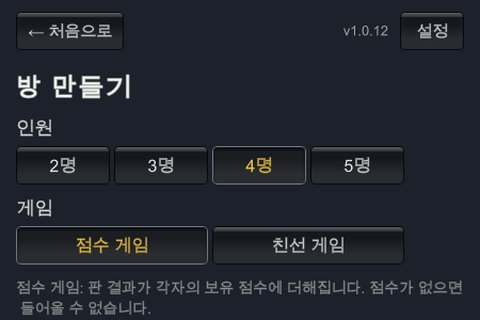
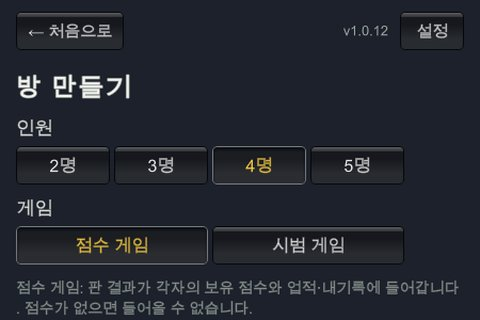
사용설명서: 충전 10만 점·200만까지·하루 한 번, 시범 게임, 암호화 저장 · 개인정보처리방침: 암호화

Changed region(s): [[0.0312, 0.9375, 0.5312, 1.0], [0.5625, 0.875, 0.9688, 0.9375], [0.5625, 0.7188, 0.6562, 0.8125]]

diff --git a/privacy.html b/privacy.html
@@ -38,7 +38,7 @@
 <table>
 <tr><th>정보</th><th>쓰는 곳</th><th>보관</th></tr>
 <tr><td>게임에서 쓰는 이름(별명)</td><td>같은 방 사람들에게 보여 주기</td><td>내 기기에만 저장. 방에 들어가면 그 방 사람들에게만 전달되고 서버에 저장하지 않습니다.</td></tr>
-<tr><td>게임 성적(판 수·승패·점수), 보유 점수, 업적·내기록</td><td>내 성적 보기, 점수 게임, 업적·기록 화면</td><td>내 기기에만 저장</td></tr>
+<tr><td>게임 성적(판 수·승패·점수), 보유 점수, 업적·내기록</td><td>내 성적 보기, 점수 게임, 업적·기록 화면</td><td>내 기기에만 저장. 보유 점수·업적·내기록은 고칠 수 없게 암호화합니다 (암호 열쇠에 기기 고유값을 쓰지만 그 값은 밖으로 보내지 않습니다).</td></tr>
 <tr><td>내 플레이 기록(내가 둔 수와 그때 내 화면에 보이던 패)</td><td>나를 닮은 AI를 학습시키는 자료</td><td>내 기기에만 저장. 다른 사람의 손패는 담기지 않습니다. 설정에서 끄고, 처음 화면 [AI 학습하기]에서 지울 수 있습니다.</td></tr>
 <tr><td>방장 판 기록(혼자 하기·내가 연 방에서 모든 자리의 패와 둔 수, 판 결과)</td><td>더 강한 AI를 학습시키는 자료</td><td>방을 연 기기에만 저장하고 밖으로 보내지 않습니다. 이름·기기 정보는 담지 않고 자리 종류(사람·AI·봇)만 남깁니다. 기본으로 켜져 있으며 설정에서 끄고 [AI 학습하기]에서 지울 수 있습니다.</td></tr>
 <tr><td>방 채팅</td><td>같은 방 사람들과 대화</td><td>저장하지 않습니다 (그 방 화면에만 보임)</td></tr>
